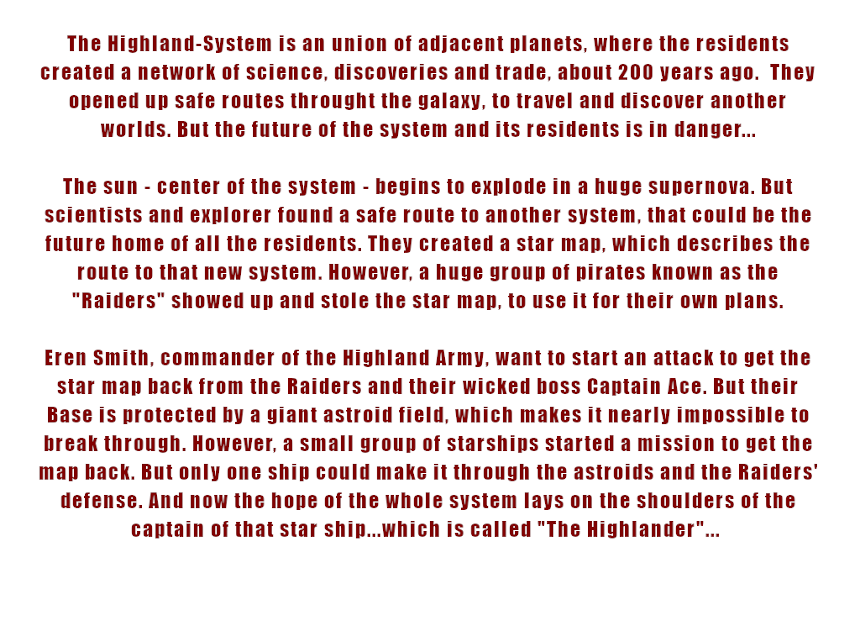
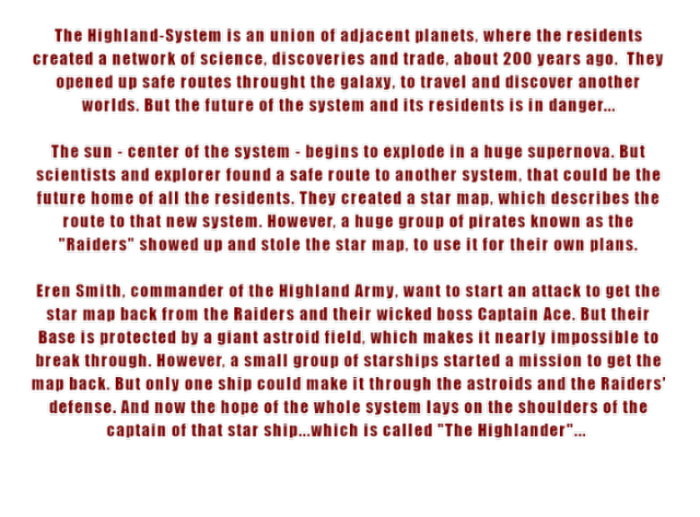
about Us

diff --git a/GameStateManagementSample/Screens/AboutGameScreen.cs b/GameStateManagementSample/Screens/AboutGameScreen.cs
@@ -6,19 +6,73 @@
 
 #endregion File Description
 
+using Microsoft.Xna.Framework;
+using Microsoft.Xna.Framework.Content;
+using Microsoft.Xna.Framework.Graphics;
+using Microsoft.Xna.Framework.Input;
+
 namespace GameStateManagement
 {
     class AboutGameScreen : MenuScreen
     {
+        #region Fields
+
+        private Texture2D about_game_text;
+        private GraphicsDeviceManager graphics;
+        private ContentManager content;
+
+        #endregion Fields
 
         #region Initialization
 
         // Constructor
-        public AboutGameScreen() 
+        public AboutGameScreen()
             : base("")
         {
         }
 
         #endregion Initialization
+
+
+        #region LoadContent
+
+        //Bild hochladen
+        public override void LoadContent()
+        {
+            // Create a new SpriteBatch, which can be used to draw textures.
+
+            ContentManager content = ScreenManager.Game.Content;
+
+            about_game_text = content.Load<Texture2D>(@"graphics\screen_graphics\about_game_text");
+
+        }
+
+        #endregion Initialization
+
+        #region Draw
+
+        public override void Draw(GameTime gameTime)
+        {
+
+            SpriteBatch spriteBatch = ScreenManager.SpriteBatch;
+
+            Viewport viewport = ScreenManager.GraphicsDevice.Viewport;
+
+            Vector2 viewportSize = new Vector2(viewport.Width, viewport.Height + 50);
+            Vector2 textSize = new Vector2(about_game_text.Width, about_game_text.Height);
+            Vector2 textPosition = (viewportSize - textSize) / 2;
+
+            // Anfang des SpriteBatches
+            spriteBatch.Begin();
+
+            spriteBatch.Draw(about_game_text, textPosition, Color.White);
+
+            spriteBatch.End();
+
+            base.Draw(gameTime);
+        }
+
+        #endregion Draw
+
     }
 }

diff --git a/GameStateManagementSample/Screens/LoadingScreen.cs b/GameStateManagementSample/Screens/LoadingScreen.cs
@@ -56,7 +56,7 @@ namespace GameStateManagement
             this.loadingIsSlow = loadingIsSlow;
             this.screensToLoad = screensToLoad;
 
-            TransitionOnTime = TimeSpan.FromSeconds(2.5);
+            TransitionOnTime = TimeSpan.FromSeconds(2.0);
         }
 
         /// <summary>
